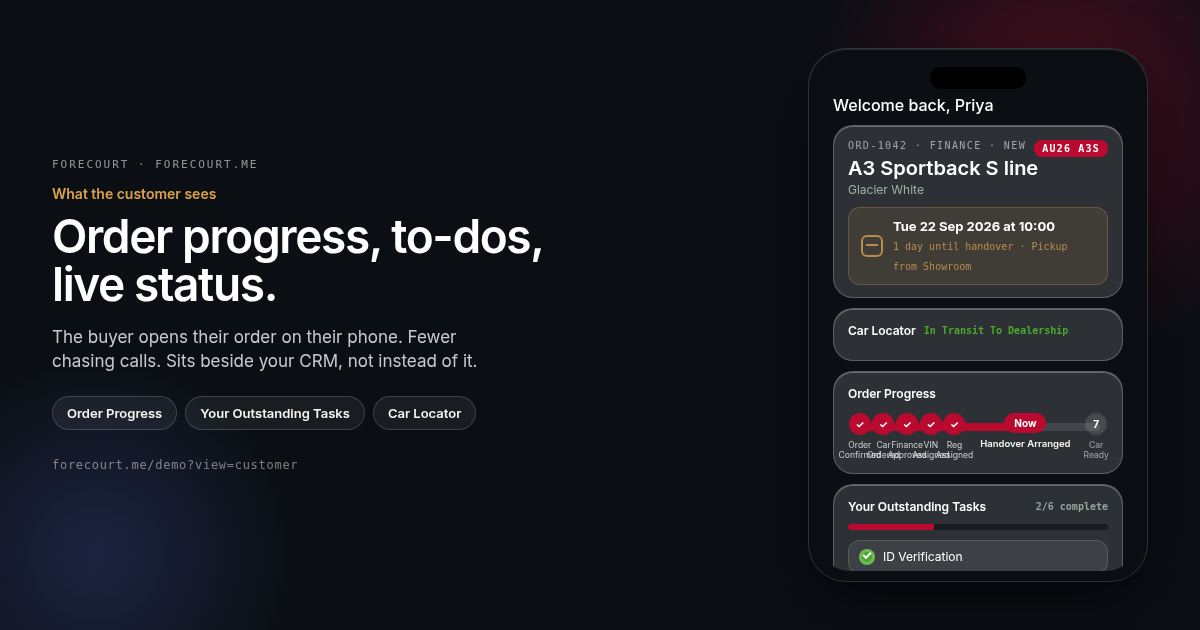
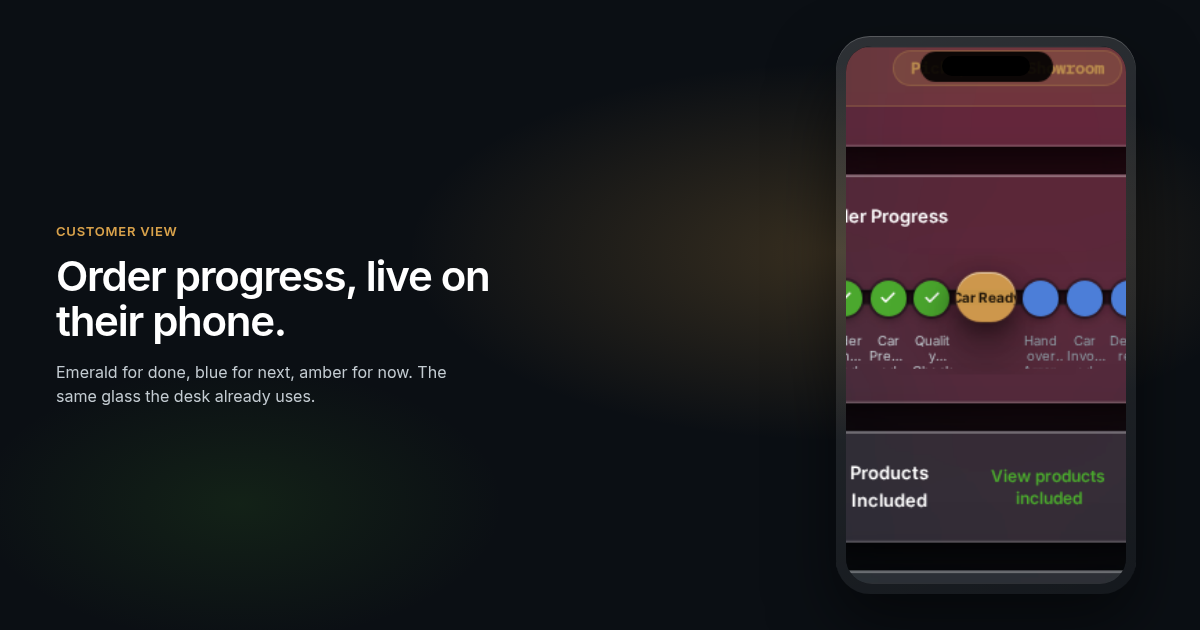
Fix customer glass progress rails to Skoda Portal fidelity.
Centre discs on an inset track inside the nodes, use emerald/blue/amber
marks with stage names on the now-pill, drop the 640px min-width that
forced phone x-scroll, tighten CustomerPane type for the homepage bezel,
and refresh the 1200x630 customer-view social PNG from the corrected glass.

diff --git a/src/styles.css b/src/styles.css
@@ -193,7 +193,7 @@
 .desk-shell {
   --pine: #0f2f24;
   --pine-tint: #e4e9e1;
-  --emerald: #4ba82e;
+  --emerald: #4BA82E;
   --paper: #f6f5f1;
   --card: #ffffff;
   --line: #e1e4de;
@@ -476,7 +476,8 @@
 .rail-scroll {
   position: relative;
   width: 100%;
-  overflow-x: auto;
+  max-width: 100%;
+  overflow-x: hidden;
   overflow-y: hidden;
   padding: 8px 0 4px;
   scrollbar-width: none;
@@ -487,8 +488,19 @@
 .progress-rail,
 .locator-rail {
   position: relative;
-  min-width: 640px;
-  padding: 6px 16px 0 8px;
+  width: 100%;
+  min-width: 0;
+  max-width: 100%;
+  padding: 6px 4px 0;
+  box-sizing: border-box;
+}
+.progress-nodes,
+.locator-nodes {
+  position: relative;
+  display: flex;
+  align-items: flex-start;
+  width: 100%;
+  min-width: 0;
 }
 .progress-track,
 .locator-track {
@@ -501,13 +513,9 @@
   z-index: 0;
   pointer-events: none;
   border-radius: 999px;
-  background: rgba(255, 255, 255, 0.1);
-}
-.progress-nodes,
-.locator-nodes {
-  position: relative;
-  display: flex;
-  align-items: flex-start;
+  background: var(--shell-inset-bg);
+  box-shadow: var(--shell-inset-shadow);
+  border: 1px solid rgba(255, 255, 255, 0.06);
 }
 .progress-node,
 .locator-node {
@@ -516,14 +524,16 @@
   display: flex;
   flex-direction: column;
   align-items: center;
-  flex: 1;
-  min-width: 64px;
+  flex: 1 1 0;
+  min-width: 0;
+  max-width: 100%;
 }
 .progress-node.is-current,
 .locator-node.is-current {
-  flex: 0 0 auto;
-  min-width: 156px;
-  padding: 0 6px;
+  flex: 1.35 1 0;
+  min-width: 0;
+  max-width: 38%;
+  padding: 0 2px;
 }
 .stage-disc {
   width: 26px;
@@ -532,38 +542,47 @@
   display: grid;
   place-items: center;
   color: #fff;
-  background: var(--emerald);
+  background: #4BA82E;
   border: none;
   box-shadow: 0 2px 6px rgba(0, 0, 0, 0.4), 0 0 0 2px rgba(11, 15, 20, 0.35);
 }
 .stage-disc.is-faint {
-  background: #4c7ed8;
+  background: #4C7ED8;
+  color: #fff;
 }
 .now-pill {
   height: 42px;
-  padding: 0 16px;
+  max-width: 100%;
+  padding: 0 10px;
   border-radius: 999px;
-  background: color-mix(in srgb, var(--shell-accent) 88%, rgba(255, 255, 255, 0.18));
-  color: var(--shell-accent-ink);
-  font-size: 12px;
+  background: color-mix(in srgb, #D9A24B 88%, rgba(255, 255, 255, 0.18));
+  color: #20160A;
+  font-size: 11px;
   font-weight: 700;
+  line-height: 1.15;
   white-space: nowrap;
+  overflow: hidden;
+  text-overflow: ellipsis;
   display: inline-flex;
   align-items: center;
-  gap: 6px;
+  justify-content: center;
+  gap: 5px;
   box-shadow: var(--shell-float-shadow);
   z-index: 2;
   animation: pill-pulse 2.8s ease-in-out infinite;
 }
 .arrived-pill {
   height: 34px;
-  padding: 0 12px;
+  max-width: 100%;
+  padding: 0 10px;
   border-radius: 999px;
-  background: color-mix(in srgb, var(--emerald) 72%, #0b0f14);
+  background: color-mix(in srgb, #4BA82E 72%, #0b0f14);
   color: #f3fff0;
   font-size: 10.5px;
   font-weight: 700;
   white-space: nowrap;
+  overflow: hidden;
+  text-overflow: ellipsis;
   display: inline-flex;
   align-items: center;
   gap: 5px;
@@ -574,15 +593,22 @@
   align-items: center;
   justify-content: center;
   flex-shrink: 0;
+  width: 100%;
 }
 .rail-label {
   margin-top: 4px;
-  padding: 0 2px 4px;
+  padding: 0 1px 4px;
   font-size: 9.5px;
-  line-height: 1.25;
+  line-height: 1.2;
   text-align: center;
   color: var(--shell-text-faint);
   max-width: 100%;
+  display: -webkit-box;
+  -webkit-box-orient: vertical;
+  -webkit-line-clamp: 2;
+  overflow: hidden;
+  word-break: break-word;
+  overflow-wrap: anywhere;
 }
 .rail-label.is-done {
   color: var(--shell-text-dim);
@@ -758,6 +784,25 @@
   padding-bottom: 2.5rem !important;
 }
 .customer-phone-scroll .customer-header-card .text-\[26px\],
-.customer-phone-scroll .text-\[26px\] {
-  font-size: 1.25rem !important;
+.customer-phone-scroll .customer-header-card .text-\[20px\],
+.customer-phone-scroll .text-\[26px\],
+.customer-phone-scroll .text-\[20px\] {
+  font-size: 1.125rem !important; /* 18px in phone bezel */
+  line-height: 1.25 !important;
+}
+.customer-phone-scroll .rail-scroll {
+  overflow-x: hidden !important;
+}
+.customer-phone-scroll .now-pill,
+.customer-phone-scroll .arrived-pill {
+  font-size: 10px;
+  padding: 0 8px;
+  height: 36px;
+}
+.customer-phone-scroll .rail-mark {
+  height: 42px;
+}
+.customer-phone-scroll .progress-node.is-current,
+.customer-phone-scroll .locator-node.is-current {
+  max-width: 44%;
 }

diff --git a/src/components/demo/desk.tsx b/src/components/demo/desk.tsx
@@ -174,16 +174,8 @@ function ProgressRail({ stages, stageIndex }: { stages: readonly string[]; stage
   return (
     <div className="rail-scroll">
       <div className="progress-rail">
-        <div className="progress-track">
-          <div
-            className="h-full rounded-full"
-            style={{
-              width: `${(stageIndex / Math.max(stages.length - 1, 1)) * 100}%`,
-              background: "var(--desk-accent)",
-            }}
-          />
-        </div>
         <div className="progress-nodes">
+          <div className="progress-track shell-glass-inset" aria-hidden />
           {stages.map((stage, i) => {
             const current = i === stageIndex;
             const done = i < stageIndex;
@@ -192,12 +184,16 @@ function ProgressRail({ stages, stageIndex }: { stages: readonly string[]; stage
               <div key={stage} className={cn("progress-node", current && "is-current")}>
                 <div className="rail-mark">
                   {current ? (
-                    <span className={last ? "arrived-pill" : "now-pill"}>{last ? "Delivered" : "Now"}</span>
+                    <span className={last ? "arrived-pill" : "now-pill"}>{stage}</span>
                   ) : (
-                    <span className={cn("stage-disc", !done && "is-faint")}>{done ? <Check size={13} /> : i + 1}</span>
+                    <span className={cn("stage-disc", !done && "is-faint")} title={stage}>
+                      {done ? <Check size={13} strokeWidth={2.75} /> : null}
+                    </span>
                   )}
                 </div>
-                <div className={cn("rail-label", done && "is-done", current && (last ? "is-arrived" : "is-now"))}>{stage}</div>
+                <div className={cn("rail-label", done && "is-done", current && (last ? "is-arrived" : "is-now"))}>
+                  {current ? " " : stage}
+                </div>
               </div>
             );
           })}
@@ -211,13 +207,8 @@ function LocatorRail({ index, onPick }: { index: number; onPick?: (i: number) =>
   return (
     <div className="rail-scroll">
       <div className="locator-rail">
-        <div className="locator-track">
-          <div
-            className="h-full rounded-full"
-            style={{ width: `${(index / (locatorLane.length - 1)) * 100}%`, background: "var(--desk-accent)" }}
-          />
-        </div>
         <div className="locator-nodes">
+          <div className="locator-track shell-glass-inset" aria-hidden />
           {locatorLane.map((step, i) => {
             const current = i === index;
             const done = i < index;
@@ -232,14 +223,16 @@ function LocatorRail({ index, onPick }: { index: number; onPick?: (i: number) =>
                 <div className="rail-mark">
                   {current ? (
                     <span className={arrived ? "arrived-pill" : "now-pill"}>
-                      <Car size={13} /> {arrived ? "Arrived" : "Now"}
+                      <Car size={13} /> {step.label}
                     </span>
                   ) : (
-                    <span className={cn("stage-disc", !done && "is-faint")}>{done ? <Check size={13} /> : null}</span>
+                    <span className={cn("stage-disc", !done && "is-faint")} title={step.label}>
+                      {done ? <Check size={13} strokeWidth={2.75} /> : null}
+                    </span>
                   )}
                 </div>
                 <div className={cn("rail-label", done && "is-done", current && (arrived ? "is-arrived" : "is-now"))}>
-                  {step.label}
+                  {current ? " " : step.label}
                 </div>
               </button>
             );
@@ -408,7 +401,7 @@ export function CustomerPane({ hideStaffBar = false }: { hideStaffBar?: boolean 
           <span className="flex size-11 items-center justify-center rounded-full" style={{ background: "rgba(255,255,255,0.08)" }}>
             <Car size={18} color="var(--shell-text-faint)" />
           </span>
-          <div className="text-[26px] leading-tight font-medium text-[#F6F5F1]">{deal.vehicle}</div>
+          <div className="text-[20px] leading-tight font-medium text-[#F6F5F1]">{deal.vehicle}</div>
         </div>
         <div className="mb-1.5 font-mono text-[11.5px] text-[#7C8F84]">VIN: {deal.vin || "-"}</div>
         <div className="mb-4 text-sm text-[#9FB0A6]">{deal.colour}</div>

diff --git a/src/components/home-customer-view.tsx b/src/components/home-customer-view.tsx
@@ -41,9 +41,18 @@ export function HomeCustomerView({
   const brandId = useDemo((s) => s.brandId);
   const brand = BRANDS[brandId];
 
+  const deals = useDemo((s) => s.deals);
+  const pickDeal = useDemo((s) => s.pickDeal);
+
   useEffect(() => {
     hydrate();
   }, [hydrate]);
+
+  useEffect(() => {
+    // Shorter Used/Cash journey fits the phone bezel without x-scroll.
+    const compact = deals.find((d) => d.type === "Used" && d.customerType === "Cash") ?? deals.find((d) => d.type === "Used");
+    if (compact) pickDeal(compact.id);
+  }, [deals, pickDeal]);
 
   return (
     <section
@@ -146,7 +155,7 @@ function PhoneFrame({
           }
         >
           <div className="desk-orb opacity-60" aria-hidden />
-          <div className="relative z-10 h-full overflow-y-auto overscroll-contain pt-8 [&_.mx-auto]:max-w-none [&_.px-5]:px-3.5 [&_.py-7]:py-4 [&_.pb-24]:pb-10 [&_.text-\\[26px\\]]:text-[20px]">
+          <div className="customer-phone-scroll relative z-10 h-full overflow-x-hidden overflow-y-auto overscroll-contain pt-8 [&_.mx-auto]:max-w-none [&_.px-5]:px-3.5 [&_.py-7]:py-4 [&_.pb-24]:pb-10 [&_.text-\[26px\]]:text-[18px] [&_.text-\[20px\]]:text-[18px]">
             {children}
           </div>
         </div>
